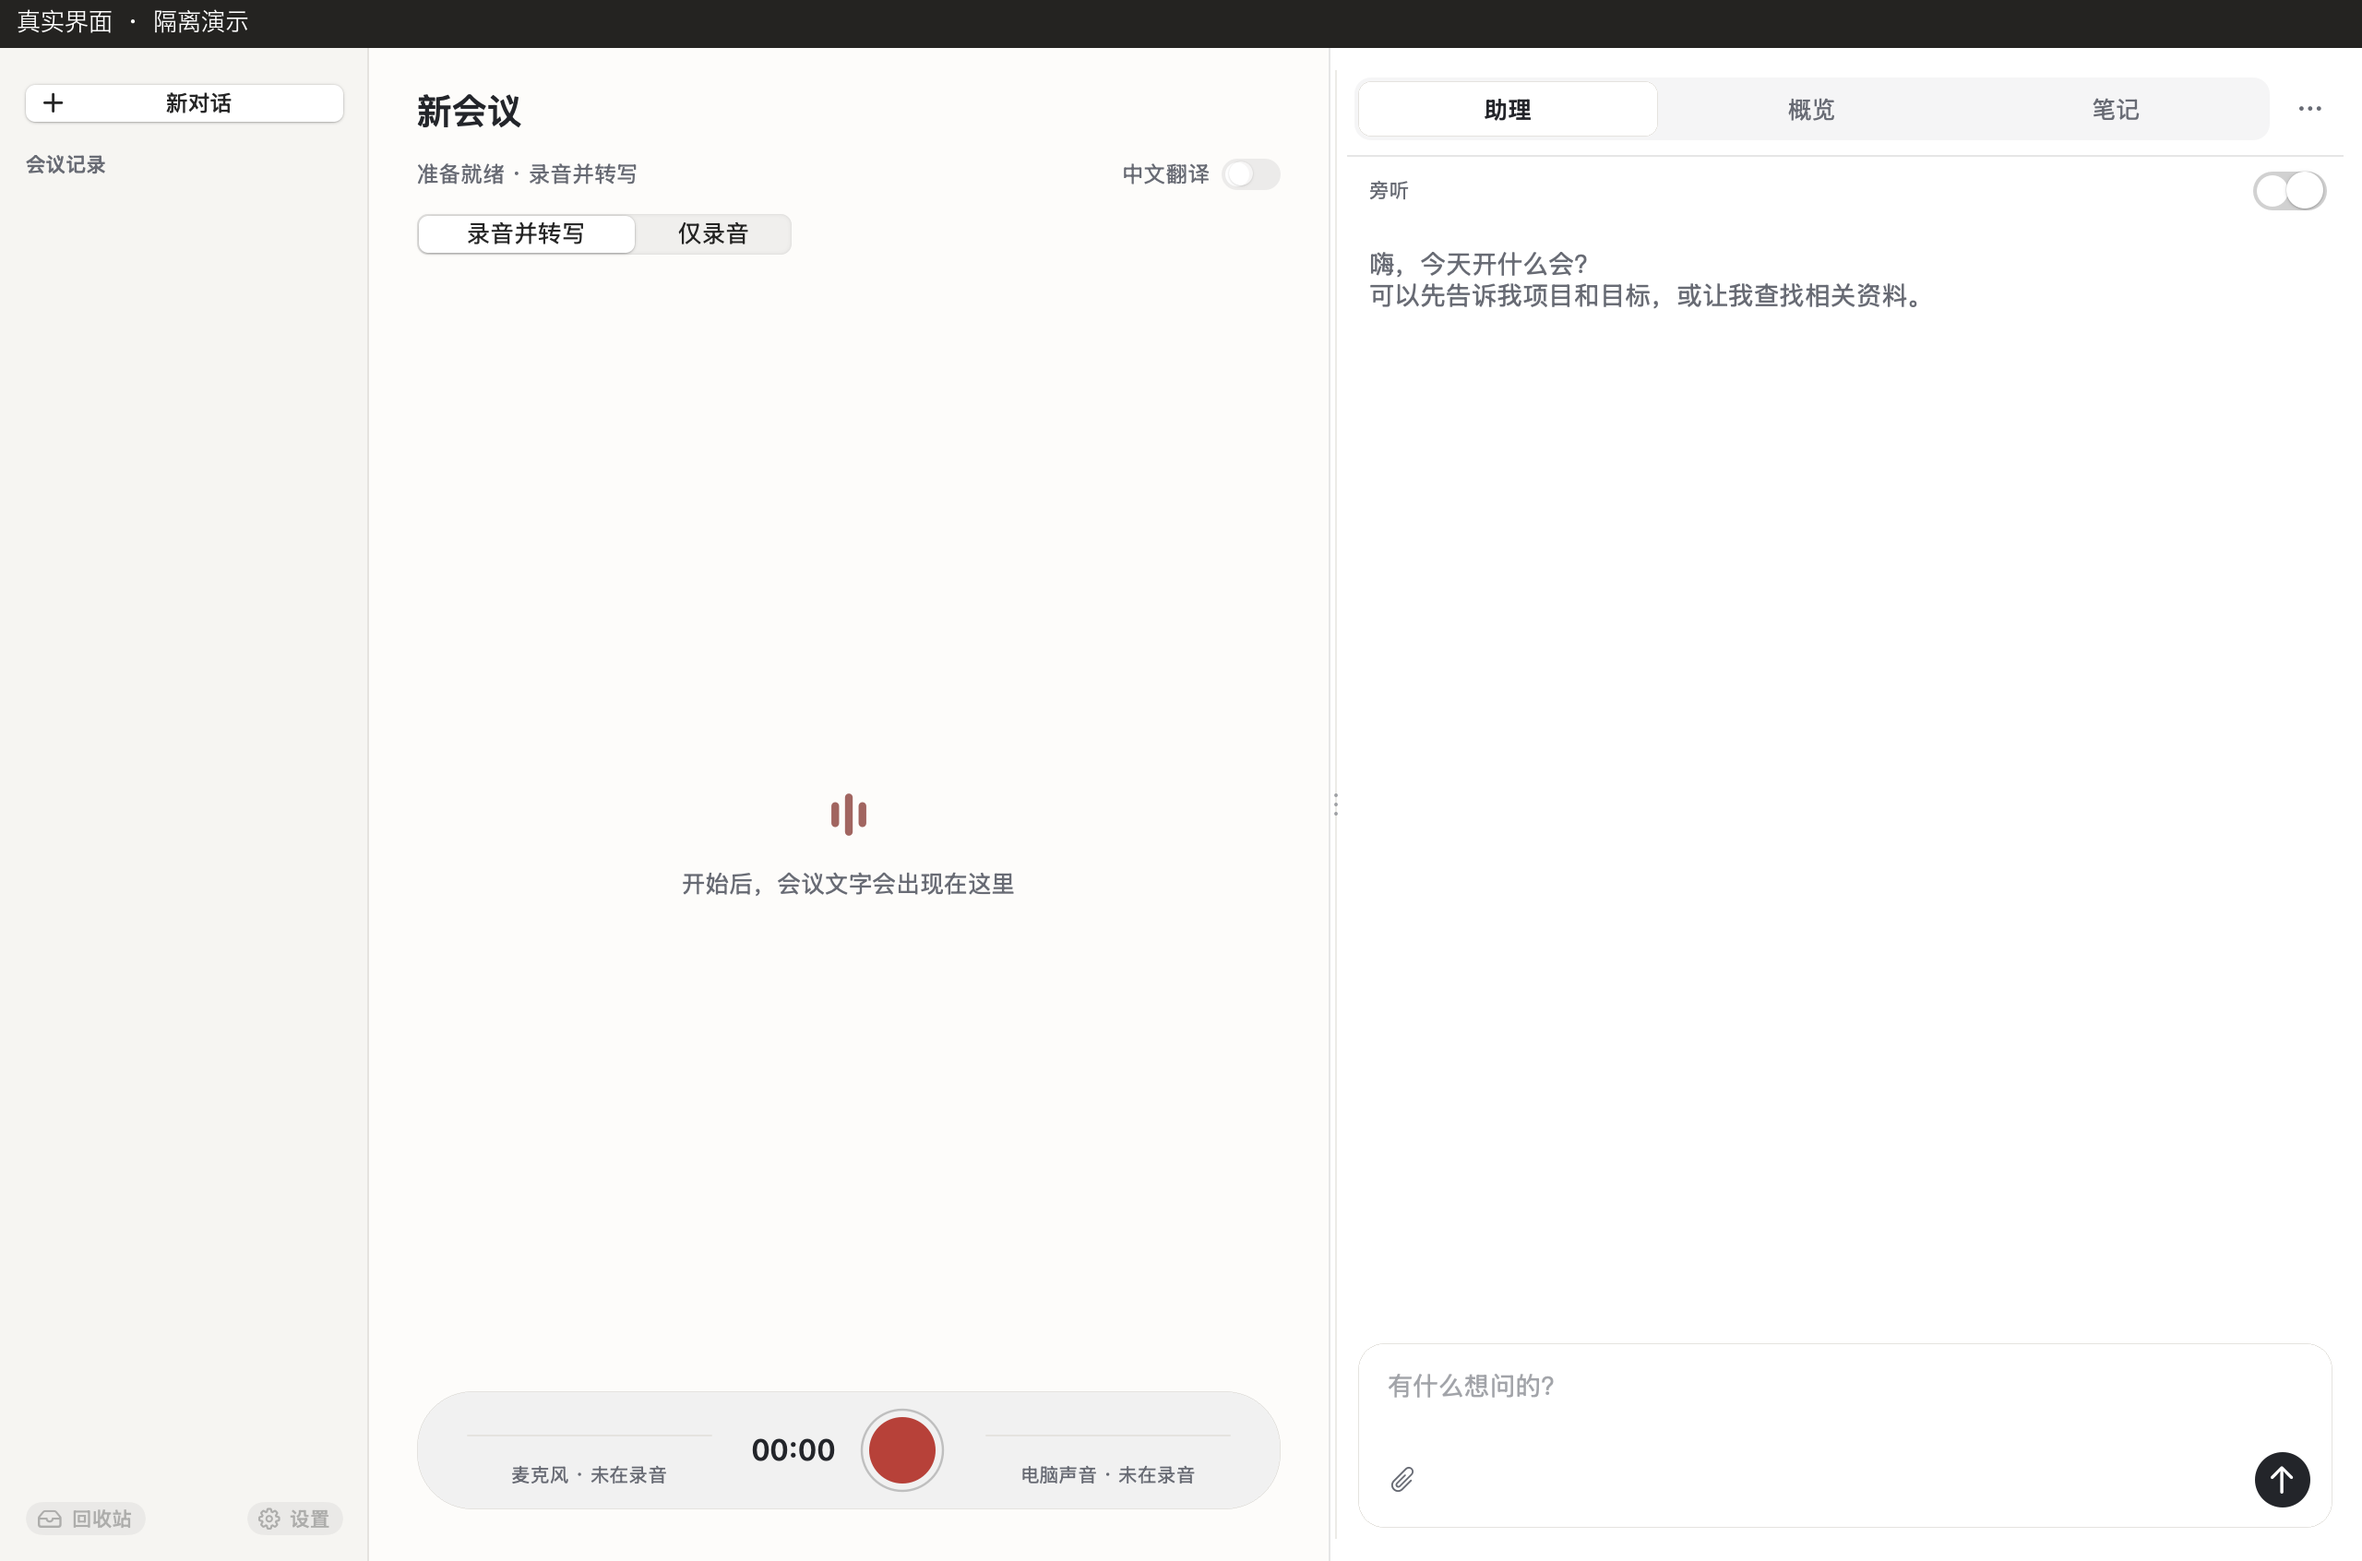
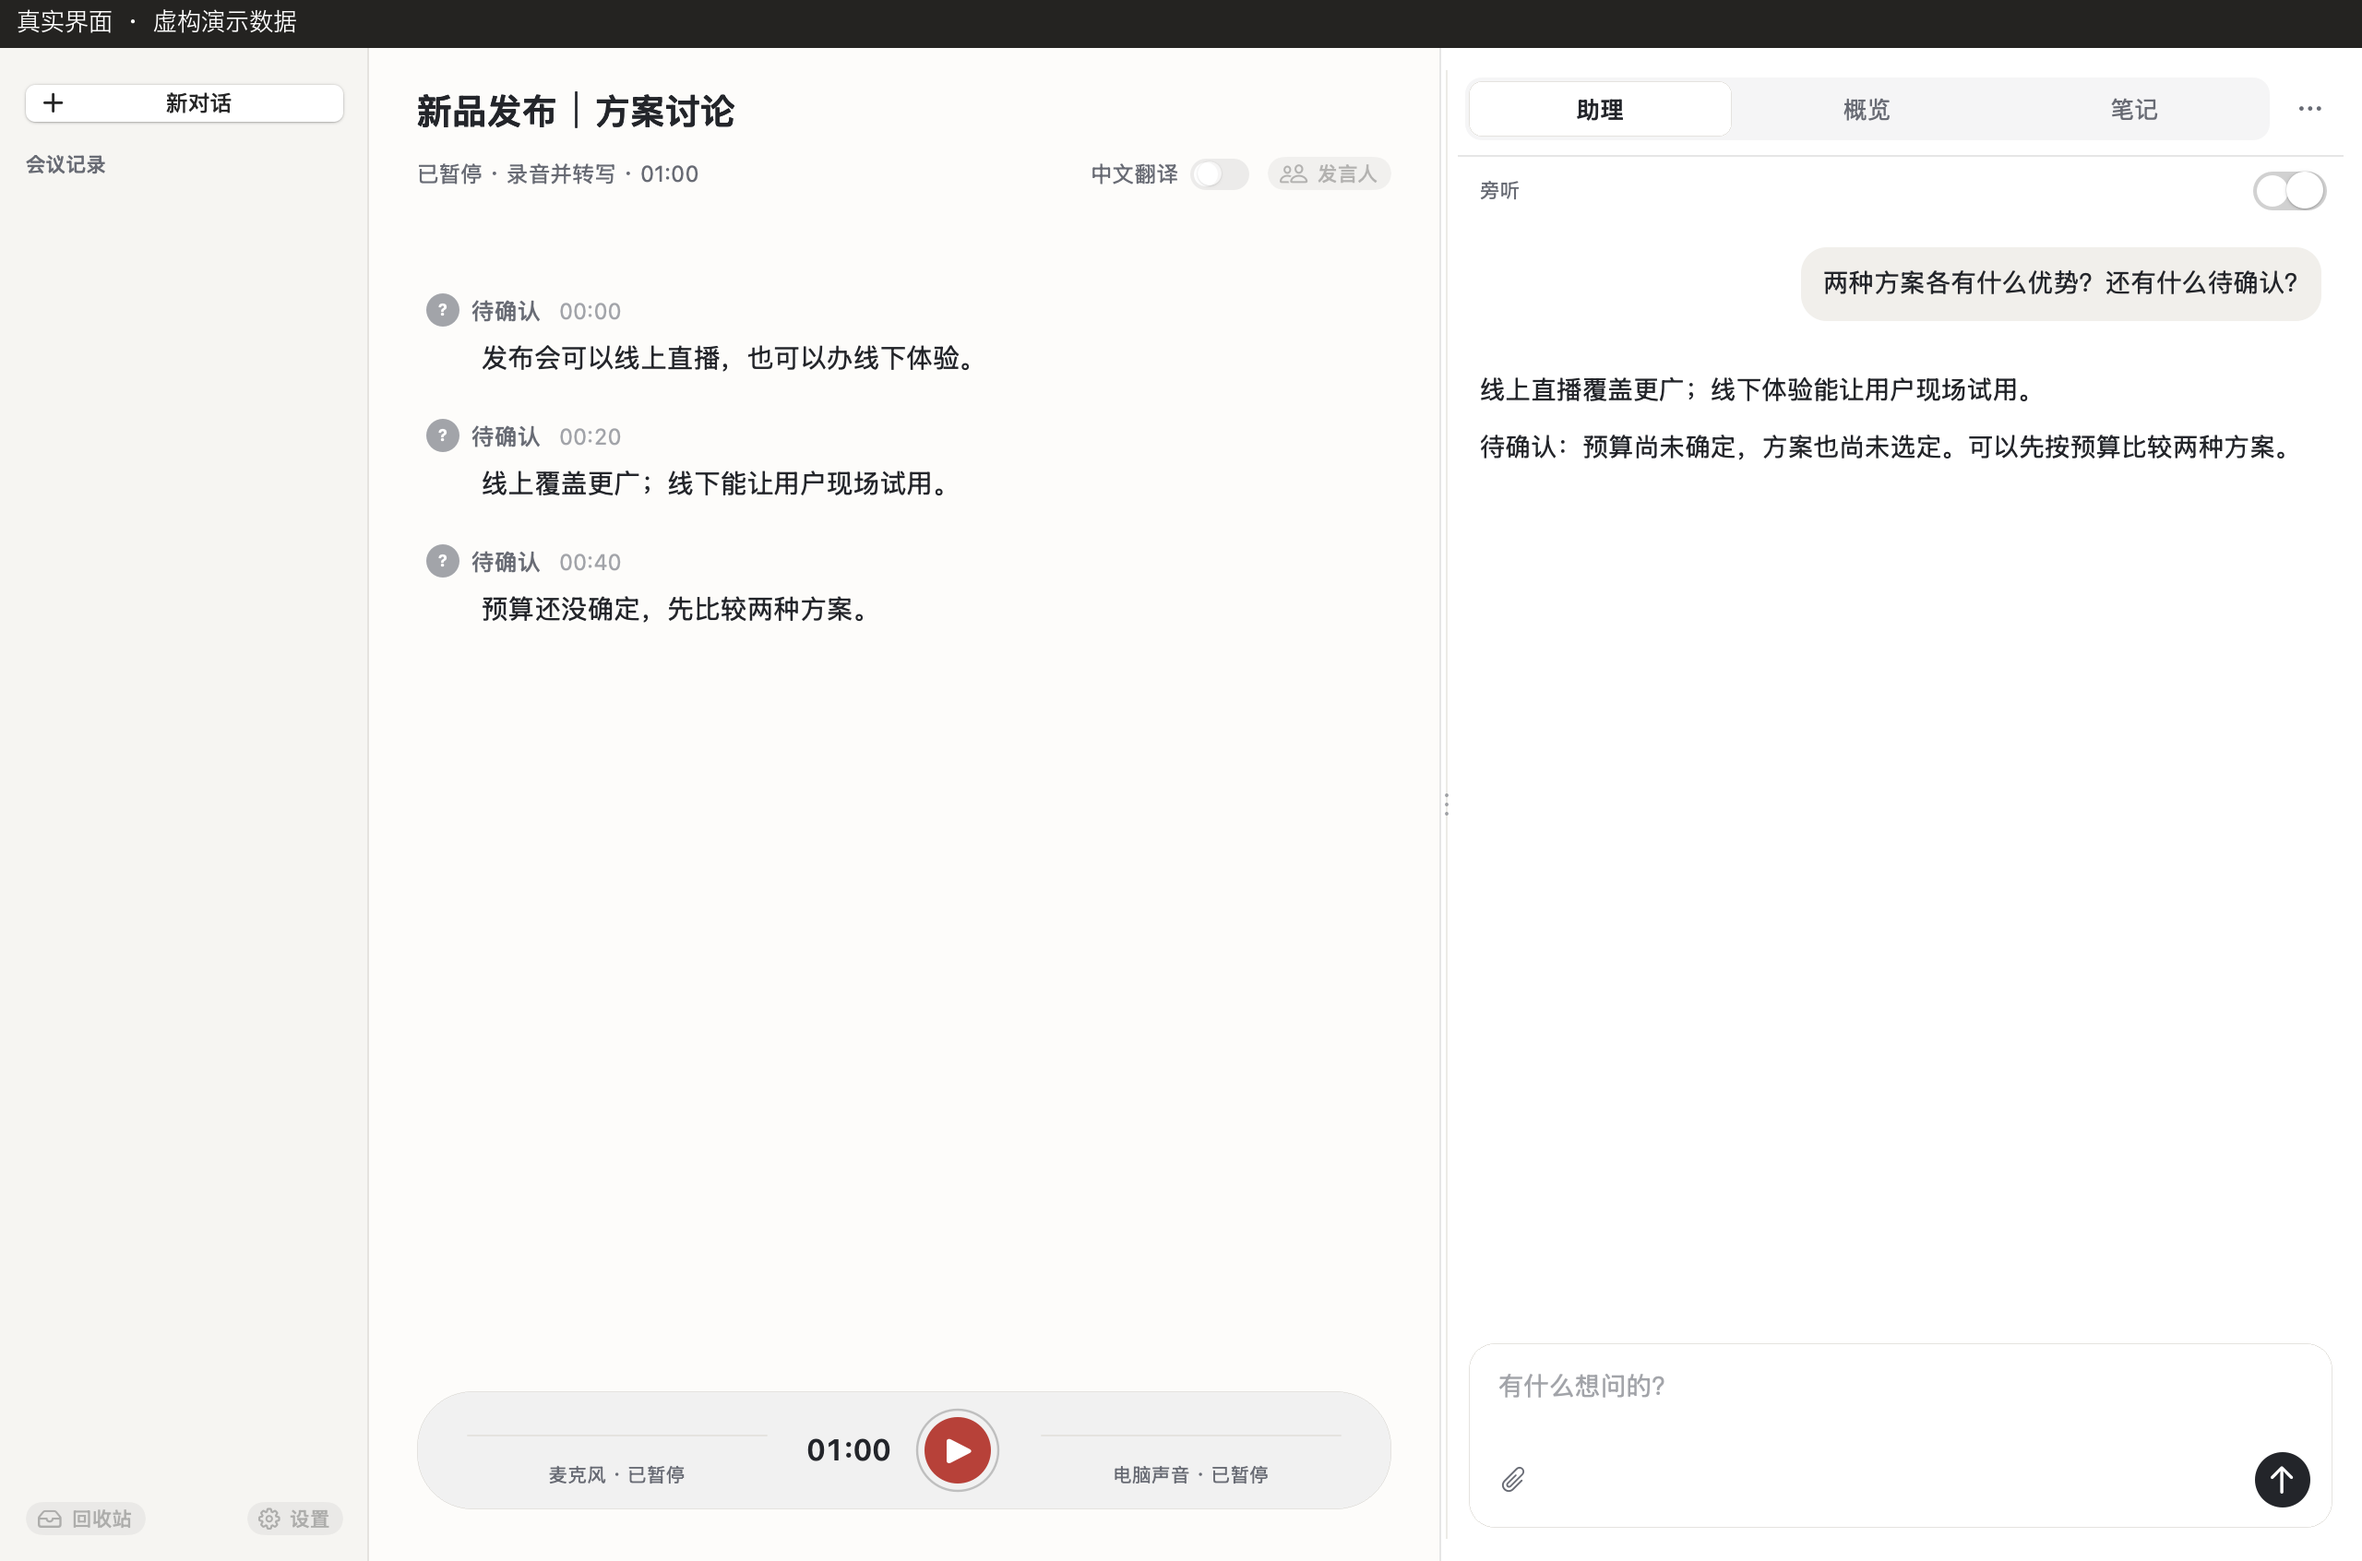
Show a grounded assistant conversation

diff --git a/README.md b/README.md
@@ -47,9 +47,9 @@
 
 ## 会中外脑，帮你在当场说得更清楚
 
-![真实原生界面：新会议与助理面板](docs/assets/demo-assistant-20261027.png)
+![真实原生界面：会议原文与助理问答](docs/assets/demo-assistant-20261027.png)
 
-<p align="center"><sub>真实原生界面的隔离测试画面，尚未开始录音；旁听由用户手动开启。</sub></p>
+<p align="center"><sub>真实原生界面的隔离演示；会议原文和助理问答为虚构注入示例，并非模型实测。旁听由用户手动开启。</sub></p>
 
 “按上次方案推进。”会上这句话很短，背后可能是几份方案、一轮反馈和上周的约定。在场里的外脑，就是这场会议的助理：它读着当前原文，也能读你指出的项目资料，在同一场对话里回答。
 
